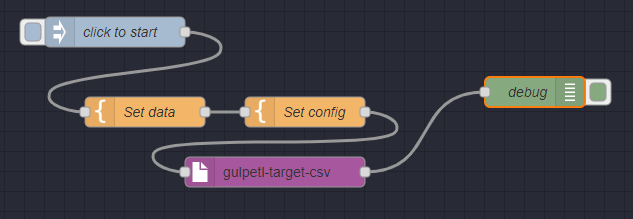
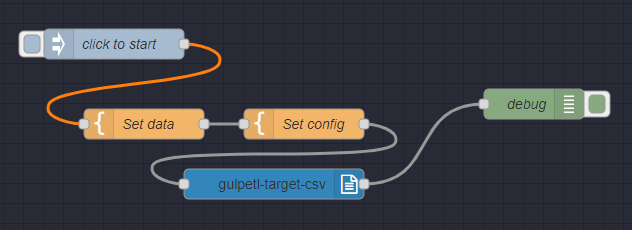
Tweaks; now ready to work in full gulp streaming mode

Changed region(s): [[0.0301, 0.0548, 0.9921, 0.8767]]

diff --git a/dist/js/plugin.js b/dist/js/plugin.js
@@ -1,6 +1,6 @@
 "use strict";
 Object.defineProperty(exports, "__esModule", { value: true });
-exports.targetCsv = exports.csvStringifyNdjson = exports.extractRecordObjFromMessageString = void 0;
+exports.targetCsv = exports.csvStringifyNdjson = exports.extractConfig = exports.extractRecordObjFromMessageString = void 0;
 const through2 = require('through2');
 const PluginError = require("plugin-error");
 const pkginfo = require('pkginfo')(module); // project package.json info into module.exports
@@ -38,6 +38,34 @@ function extractRecordObjFromMessageString(messageLine) {
     return recordObj.record || null; // if record doesn't exist, we return null
 }
 exports.extractRecordObjFromMessageString = extractRecordObjFromMessageString;
+let localDefaultConfigObj = { header: true };
+/**
+ * Merges config information for this plugin from all potential sources
+ * @param specificConfigObj A configObj set specifically for this plugin
+ * @param pipelineConfigObj A "super" configObj (e.g. file.data or msg.config) for the whole pipeline which may/may not apply to this plugin; if it
+ * does, its parameters override any matching ones from specificConfigObj.
+ * @param defaultConfigObj A default configObj, whose parameters are overridden by all others
+ */
+function extractConfig(specificConfigObj, pipelineConfigObj, defaultConfigObj = localDefaultConfigObj) {
+    let configObj;
+    try {
+        if (pipelineConfigObj) {
+            // look for a property based on our plugin's name; assumes a complex object meant for multiple plugins
+            let dataObj = pipelineConfigObj[PLUGIN_NAME];
+            // if we didn't find a config above, use the entire file.data object as our config
+            if (!dataObj)
+                dataObj = pipelineConfigObj;
+            // merge superConfigObj config into our passed-in origConfigObj
+            // merge.recursive(origConfigObj, dataObj); // <-- huge bug: can't mess with origConfigObj, because changes there will bleed into subsequent calls
+            configObj = merge_1.default.recursive(true, defaultConfigObj, specificConfigObj, dataObj);
+        }
+        else
+            configObj = merge_1.default.recursive(true, defaultConfigObj, specificConfigObj);
+    }
+    catch (_a) { }
+    return configObj;
+}
+exports.extractConfig = extractConfig;
 /**
  * Converts an [ndjson](https://ndjson.org/) input into an array of objects and passes the array to csvStringify for conversion to CSV
  * @param ndjsonLines May be a string or Buffer representing ndjson lines, or an array of json strings or an array of objects
@@ -83,24 +111,7 @@ function targetCsv(origConfigObj) {
     // creating a stream through which each file will pass - a new instance will be created and invoked for each file 
     // see https://stackoverflow.com/a/52432089/5578474 for a note on the "this" param
     const strm = through2.obj(function (file, encoding, cb) {
-        let configObj;
-        try {
-            if (file.data) {
-                // look for a property based on our plugin's name; assumes a complex object meant for multiple plugins
-                let dataObj = file.data[PLUGIN_NAME];
-                // if we didn't find a config above, use the entire file.data object as our config
-                if (!dataObj)
-                    dataObj = file.data;
-                // merge file.data config into our passed-in origConfigObj
-                // merge.recursive(origConfigObj, dataObj); // <-- huge bug: can't mess with origConfigObj, because changes there will bleed into subsequent calls
-                configObj = merge_1.default.recursive(true, origConfigObj, dataObj);
-            }
-            else
-                configObj = merge_1.default.recursive(true, origConfigObj);
-        }
-        catch (_a) { }
-        if (configObj.header === undefined)
-            configObj.header = true; // we default header to true, the expected default behavior for general usage
+        let configObj = extractConfig(origConfigObj, file.data);
         const self = this;
         let returnErr = null;
         file.path = replaceExt(file.path, '.csv');

diff --git a/dist/lib/plugin.js b/dist/lib/plugin.js
@@ -1,6 +1,6 @@
 "use strict";
 Object.defineProperty(exports, "__esModule", { value: true });
-exports.targetCsv = exports.csvStringifyNdjson = exports.extractRecordObjFromMessageString = void 0;
+exports.targetCsv = exports.csvStringifyNdjson = exports.extractConfig = exports.extractRecordObjFromMessageString = void 0;
 const through2 = require('through2');
 const PluginError = require("plugin-error");
 const pkginfo = require('pkginfo')(module); // project package.json info into module.exports
@@ -38,6 +38,34 @@ function extractRecordObjFromMessageString(messageLine) {
     return recordObj.record || null; // if record doesn't exist, we return null
 }
 exports.extractRecordObjFromMessageString = extractRecordObjFromMessageString;
+let localDefaultConfigObj = { header: true };
+/**
+ * Merges config information for this plugin from all potential sources
+ * @param specificConfigObj A configObj set specifically for this plugin
+ * @param pipelineConfigObj A "super" configObj (e.g. file.data or msg.config) for the whole pipeline which may/may not apply to this plugin; if it
+ * does, its parameters override any matching ones from specificConfigObj.
+ * @param defaultConfigObj A default configObj, whose parameters are overridden by all others
+ */
+function extractConfig(specificConfigObj, pipelineConfigObj, defaultConfigObj = localDefaultConfigObj) {
+    let configObj;
+    try {
+        if (pipelineConfigObj) {
+            // look for a property based on our plugin's name; assumes a complex object meant for multiple plugins
+            let dataObj = pipelineConfigObj[PLUGIN_NAME];
+            // if we didn't find a config above, use the entire file.data object as our config
+            if (!dataObj)
+                dataObj = pipelineConfigObj;
+            // merge superConfigObj config into our passed-in origConfigObj
+            // merge.recursive(origConfigObj, dataObj); // <-- huge bug: can't mess with origConfigObj, because changes there will bleed into subsequent calls
+            configObj = merge_1.default.recursive(true, defaultConfigObj, specificConfigObj, dataObj);
+        }
+        else
+            configObj = merge_1.default.recursive(true, defaultConfigObj, specificConfigObj);
+    }
+    catch (_a) { }
+    return configObj;
+}
+exports.extractConfig = extractConfig;
 /**
  * Converts an [ndjson](https://ndjson.org/) input into an array of objects and passes the array to csvStringify for conversion to CSV
  * @param ndjsonLines May be a string or Buffer representing ndjson lines, or an array of json strings or an array of objects
@@ -83,24 +111,7 @@ function targetCsv(origConfigObj) {
     // creating a stream through which each file will pass - a new instance will be created and invoked for each file 
     // see https://stackoverflow.com/a/52432089/5578474 for a note on the "this" param
     const strm = through2.obj(function (file, encoding, cb) {
-        let configObj;
-        try {
-            if (file.data) {
-                // look for a property based on our plugin's name; assumes a complex object meant for multiple plugins
-                let dataObj = file.data[PLUGIN_NAME];
-                // if we didn't find a config above, use the entire file.data object as our config
-                if (!dataObj)
-                    dataObj = file.data;
-                // merge file.data config into our passed-in origConfigObj
-                // merge.recursive(origConfigObj, dataObj); // <-- huge bug: can't mess with origConfigObj, because changes there will bleed into subsequent calls
-                configObj = merge_1.default.recursive(true, origConfigObj, dataObj);
-            }
-            else
-                configObj = merge_1.default.recursive(true, origConfigObj);
-        }
-        catch (_a) { }
-        if (configObj.header === undefined)
-            configObj.header = true; // we default header to true, the expected default behavior for general usage
+        let configObj = extractConfig(origConfigObj, file.data);
         const self = this;
         let returnErr = null;
         file.path = replaceExt(file.path, '.csv');

diff --git a/src/plugin.ts b/src/plugin.ts
@@ -41,6 +41,32 @@ export function extractRecordObjFromMessageString(messageLine: string | object):
   return recordObj.record || null; // if record doesn't exist, we return null
 }
 
+let localDefaultConfigObj: any = {header:true};
+/**
+ * Merges config information for this plugin from all potential sources
+ * @param specificConfigObj A configObj set specifically for this plugin
+ * @param pipelineConfigObj A "super" configObj (e.g. file.data or msg.config) for the whole pipeline which may/may not apply to this plugin; if it
+ * does, its parameters override any matching ones from specificConfigObj.
+ * @param defaultConfigObj A default configObj, whose parameters are overridden by all others
+ */
+export function extractConfig(specificConfigObj:any, pipelineConfigObj?:any, defaultConfigObj:any = localDefaultConfigObj) : any {
+  let configObj: any;
+  try {
+    if (pipelineConfigObj) {
+      // look for a property based on our plugin's name; assumes a complex object meant for multiple plugins
+      let dataObj = pipelineConfigObj[PLUGIN_NAME];
+      // if we didn't find a config above, use the entire file.data object as our config
+      if (!dataObj) dataObj = pipelineConfigObj;
+      // merge superConfigObj config into our passed-in origConfigObj
+      // merge.recursive(origConfigObj, dataObj); // <-- huge bug: can't mess with origConfigObj, because changes there will bleed into subsequent calls
+      configObj = merge.recursive(true, defaultConfigObj, specificConfigObj, dataObj, );
+    }
+    else
+      configObj = merge.recursive(true, defaultConfigObj, specificConfigObj);
+  }
+  catch { }
+  return configObj;
+}
 
 /**
  * Converts an [ndjson](https://ndjson.org/) input into an array of objects and passes the array to csvStringify for conversion to CSV
@@ -90,23 +116,8 @@ export function targetCsv(origConfigObj: any) {
   // see https://stackoverflow.com/a/52432089/5578474 for a note on the "this" param
   const strm = through2.obj(function (this: any, file: Vinyl, encoding: string, cb: Function) {
 
-    let configObj;
-    try {
-      if (file.data) {
-        // look for a property based on our plugin's name; assumes a complex object meant for multiple plugins
-        let dataObj = file.data[PLUGIN_NAME];
-        // if we didn't find a config above, use the entire file.data object as our config
-        if (!dataObj) dataObj = file.data;
-        // merge file.data config into our passed-in origConfigObj
-        // merge.recursive(origConfigObj, dataObj); // <-- huge bug: can't mess with origConfigObj, because changes there will bleed into subsequent calls
-        configObj = merge.recursive(true, origConfigObj, dataObj);
-      }
-      else
-        configObj = merge.recursive(true, origConfigObj);
-    }
-    catch { }
-    if (configObj.header === undefined) configObj.header = true // we default header to true, the expected default behavior for general usage
-
+    let configObj:any = extractConfig(origConfigObj, file.data);
+    
     const self = this
     let returnErr: any = null
 

diff --git a/debug/gulpfile.ts b/debug/gulpfile.ts
@@ -33,18 +33,18 @@ function runtargetCsv(callback: any) {
   log.info('gulp task starting for ' + PLUGIN_NAME)
 
   return gulp.src('../testdata/*.ndjson', { buffer: gulpBufferMode })
-    .on('data', function (file: Vinyl) {
-      log.info('Adding options via gulp-data API (file.data) to ' + file.basename + "...")
-      file.data = { header: false }
-    })
-    .on('data', function (file: Vinyl) {
-      log.info('...or, setting file.data this way allows you to set options for multiple plugins in the same pipeline without conflicts')
-      let allOptions = file.data || {}; // set allOptions to existing file.data or, if none exists, set to an empty object
-      allOptions["gulp-etl-target-csv"] = { header: true }; // set options on file.data for a specific plugin. This will override the more general settings above.
-    })
-    .on('data', function (file: Vinyl) {
-      log.info('Starting processing on ' + file.basename)
-    })
+    // .on('data', function (file: Vinyl) {
+    //   log.info('Adding options via gulp-data API (file.data) to ' + file.basename + "...")
+    //   file.data = { header: false }
+    // })
+    // .on('data', function (file: Vinyl) {
+    //   log.info('...or, setting file.data this way allows you to set options for multiple plugins in the same pipeline without conflicts')
+    //   let allOptions = file.data || {}; // set allOptions to existing file.data or, if none exists, set to an empty object
+    //   allOptions["gulp-etl-target-csv"] = { header: true }; // set options on file.data for a specific plugin. This will override the more general settings above.
+    // })
+    // .on('data', function (file: Vinyl) {
+    //   log.info('Starting processing on ' + file.basename)
+    // })
     .pipe(targetCsv({ quoted_string: true }))
     // errorHandler isn't working..? For now we use ".on('error')"
     // .pipe(errorHandler(function (err: any) {

diff --git a/dist/types/plugin.d.ts b/dist/types/plugin.d.ts
@@ -8,6 +8,14 @@
  */
 export declare function extractRecordObjFromMessageString(messageLine: string | object): object | null;
 /**
+ * Merges config information for this plugin from all potential sources
+ * @param specificConfigObj A configObj set specifically for this plugin
+ * @param pipelineConfigObj A "super" configObj (e.g. file.data or msg.config) for the whole pipeline which may/may not apply to this plugin; if it
+ * does, its parameters override any matching ones from specificConfigObj.
+ * @param defaultConfigObj A default configObj, whose parameters are overridden by all others
+ */
+export declare function extractConfig(specificConfigObj: any, pipelineConfigObj?: any, defaultConfigObj?: any): any;
+/**
  * Converts an [ndjson](https://ndjson.org/) input into an array of objects and passes the array to csvStringify for conversion to CSV
  * @param ndjsonLines May be a string or Buffer representing ndjson lines, or an array of json strings or an array of objects
  * @param configObj [CSV Stringify options object](https://csv.js.org/stringify/options/); optional

diff --git a/gulpetl-target-csv.js b/gulpetl-target-csv.js
@@ -7,16 +7,29 @@ module.exports = function (RED) {
     RED.nodes.createNode(this, config);
     var node = this;
     node.on('input', function (msg) {
-      targetCsv.csvStringifyNdjson(msg.payload, msg.config)
-        .then((data) => {
-          msg.payload = data;
-        })
-        .catch((err) => {
-          node.error(err.message);
-        })
-        .finally(() => {
-          node.send(msg);
-        })
+      let configObj = targetCsv.extractConfig(null/*local.config*/, msg.config);
+
+      if (!msg.topic?.startsWith("gulp")) {
+
+        targetCsv.csvStringifyNdjson(msg.payload, configObj)
+          .then((data) => {
+            msg.payload = data;
+          })
+          .catch((err) => {
+            node.error(err.message);
+          })
+          .finally(() => {
+            node.send(msg);
+          })
+      }
+      else {
+        if (msg.topic == "gulp-initialize") {
+          msg.plugins.push({ name: config.type, init: () => targetCsv.targetCsv(configObj) });
+        }
+
+        node.send(msg);
+      }
+
     })
   }
 

diff --git a/gulpetl-target-csv.html b/gulpetl-target-csv.html
@@ -1,22 +1,24 @@
 <script type="text/javascript">
     RED.nodes.registerType('gulpetl-target-csv',{
         category: 'gulpetl',
-        color: '#A7579D',
+        // color: '#A7579D',
         // color: '#F9258E',
-        // color: '#3386BB',
+        color: '#3386BB',
         defaults: {
             name: {value:""}
         },
         inputs: 1,
         outputs: 1,
-        icon: "file.svg",
+        // icon: "file.svg",
+        icon: "font-awesome/fa-file-text-o",
         label: function() {
             return this.name||"gulpetl-target-csv";
         },
         paletteLabel: function() {
-            return this.name||"target-csv";
-        },
-
+            // use small non-breaking dash character for visual presentation-- avoids the breaks node-red inserts around regular dashes in the palette - https://www.compart.com/en/unicode/category/Pd
+            return "target-csv".replace("-","\u2011");
+        },        
+        align:"right"
     });
 </script>
 

diff --git a/README.md b/README.md
@@ -44,10 +44,7 @@ allows data/options from the pipeline to be used to create options passed to thi
 See the demonstration in `debug/gulpfile.ts` for usage examples.
 
 ### Node-RED ###
-[Node-RED](https://nodered.org/) is a low-code, visual programming environment for event-driven applications. We're experimenting with it, and this plugin is now available as a Node-RED node. Since we're still in test mode, we aren't yet available in Node-RED's Palette; add to Node-RED by going to your user folder and typing:
-```
-npm install gulp-etl-target-csv
-```
+[Node-RED](https://nodered.org/) is a low-code, visual programming environment for event-driven applications. Install this node under Manage Palette, look for `gulp-etl-target-csv`
 
 #### Demo flow ####
 
@@ -72,16 +69,13 @@ The config is also set in a Template node. Identical to the `configObj` above, i
 Copy this flow here for import in Node-RED under `Import`
 
 ``` json
-[{"id":"8b709063b40e4118","type":"template","z":"cd67672e19ab739a","name":"Set data","field":"payload","fieldType":"msg","format":"text","syntax":"plain",
-"template":"{\"type\":\"RECORD\",\"stream\":\"cars\",\"record\":{\"carModel\":\"Audi\",\"price\":\"10000\",\"color\":\"blue\"}}\n{\"type\":\"RECORD\",
-\"stream\":\"cars\",\"record\":{\"carModel\":\"BMW\",\"price\":\"15000\",\"color\":\"red\"}}","output":"str","x":180,"y":620,"wires":[["16687292eb745dab"]]},
-{"id":"5a22ef69893bbc79","type":"inject","z":"cd67672e19ab739a","name":"click to start","props":[{"p":"payload"},{"p":"topic","vt":"str"}],"repeat":"",
-"crontab":"","once":false,"onceDelay":0.1,"topic":"","payload":"","payloadType":"date","x":150,"y":540,"wires":[["8b709063b40e4118"]]},{"id":"7e1608b8b0ea106d",
-"type":"gulpetl-target-csv","z":"cd67672e19ab739a","name":"","x":310,"y":680,"wires":[["78c3f5cdb1e7573f"]]},{"id":"16687292eb745dab","type":"template",
-"z":"cd67672e19ab739a","name":"Set config","field":"config","fieldType":"msg","format":"json","syntax":"plain","template":"{\n    \"quoted\":true,\n    
-\"header\":true\n}","output":"json","x":340,"y":620,"wires":[["7e1608b8b0ea106d"]]},{"id":"78c3f5cdb1e7573f","type":"debug","z":"cd67672e19ab739a","name":"debug",
-"active":true,"tosidebar":true,"console":false,"tostatus":false,"complete":"payload","targetType":"msg","statusVal":"","statusType":"auto","x":570,"y":600,
-"wires":[]}]
+[{"id":"8b709063b40e4118","type":"template","z":"cd67672e19ab739a","name":"Set data","field":"payload","fieldType":"msg"
+,"format":"text","syntax":"plain","template":"{\"type\":\"RECORD\",\"stream\":\"cars\",\"record\":{\"carModel\":\"Audi\",\"price\":\"10000\",\"color\":\"blue\"}}\n{\"type\":\"RECORD\",\"stream\":\"cars\",\"record\":{\"carModel\":\"BMW\",\"price\":\"15000\",\"color\":\"red\"}}","output":"str","x":180,"y":620,"wires":[["16687292eb745dab"]]},{"id"
+:"5a22ef69893bbc79","type":"inject","z":"cd67672e19ab739a","name":"click to start","props":[{"p":"payload"},{"p":"topic","vt":"str"}],"repeat":"","crontab":"","once":false,"onceDelay":0.1,"topic":"","payload":"","payloadType":"date","x"
+:150,"y":540,"wires":[["8b709063b40e4118"]]},{"id":"7e1608b8b0ea106d","type":"gulpetl-target-csv","z":"cd67672e19ab739a","name":"","x":310,"y":680,"wires":[["78c3f5cdb1e7573f"]]},{"id":"16687292eb745dab","type":"template","z"
+:"cd67672e19ab739a","name":"Set config","field":"config","fieldType":"msg","format":"json","syntax":"plain","template":"{\n    \"quoted\":true,\n\"header\":true\n}","output":"json","x":340,"y":620,"wires":[["7e1608b8b0ea106d"]]},{"id"
+:"78c3f5cdb1e7573f","type":"debug","z":"cd67672e19ab739a","name":"debug","active":true,"tosidebar":true,"console":false,"tostatus":false,"complete":"payload","targetType":"msg","statusVal":"",
+"statusType":"auto","x":570,"y":600,"wires":[]}]
 ```
 
 ### Quick Start for Coding on This Plugin ##
